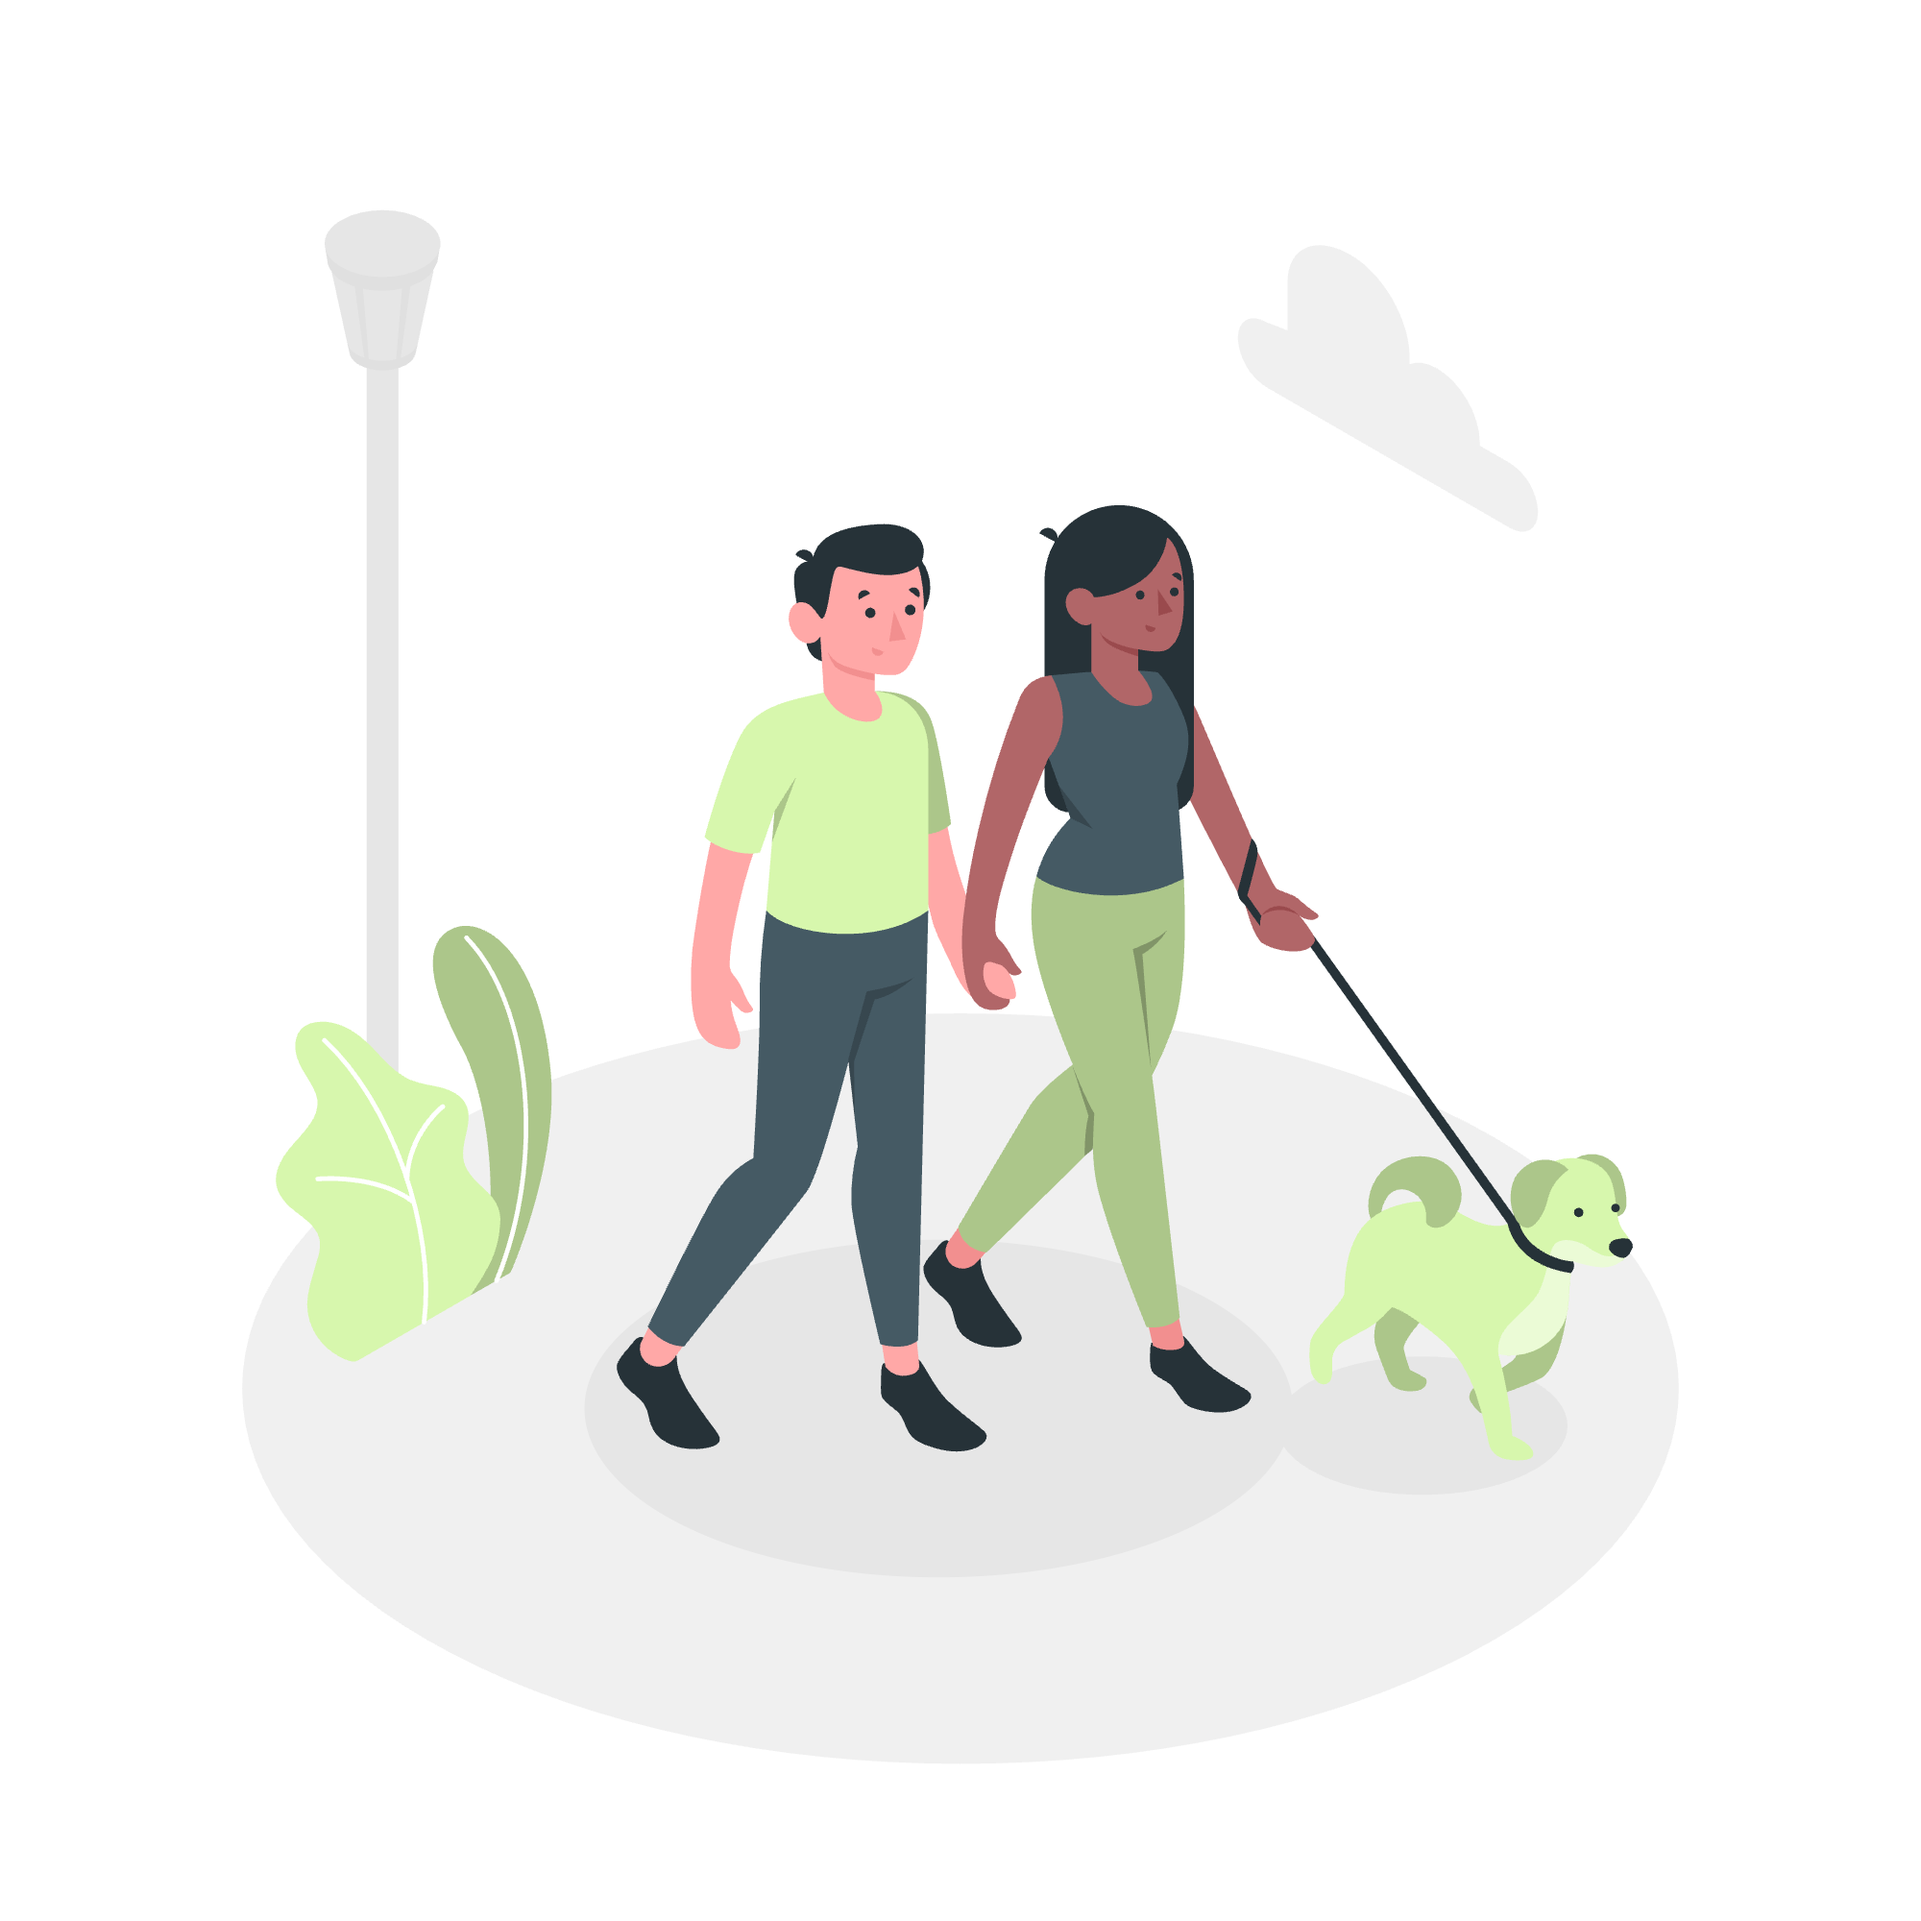
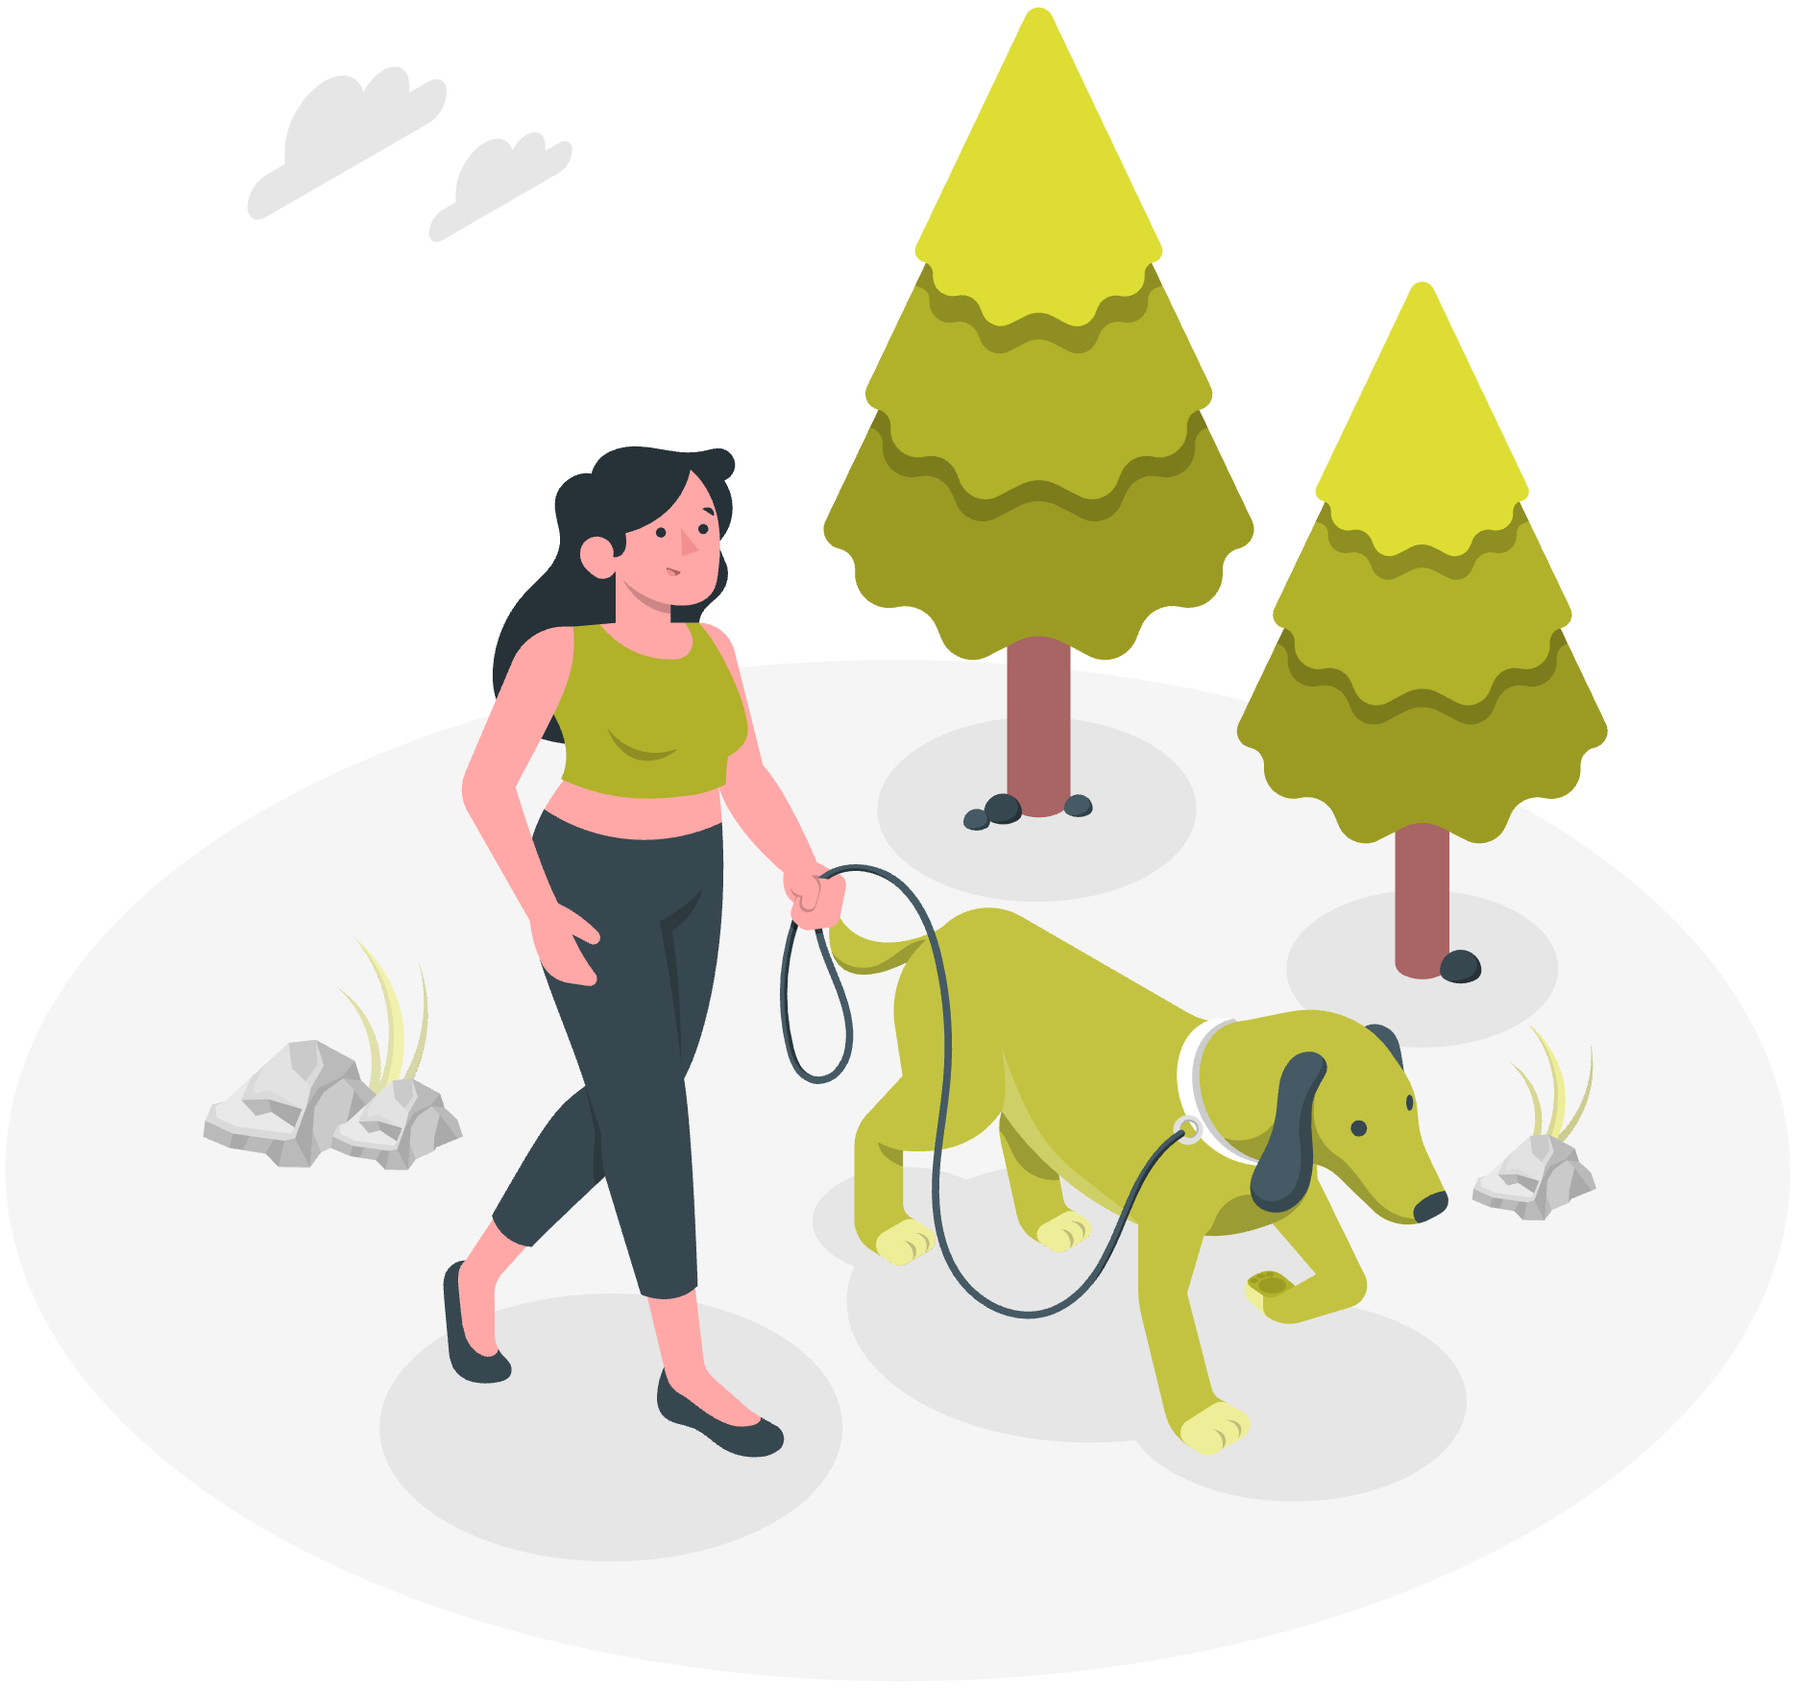
Nueva ilustración en el botón de publicar solicitud
Sustituye a la anterior, conservando el nombre del archivo.

La caja pasa de 96 × 76 a 87 × 82 porque la ilustración nueva no es
cuadrada (1874 × 1761). Con 'contain' y una caja de otra proporción, se
habría encogido para caber y habría dejado aire a los lados sin que se
entienda por qué.

Verificado que trae canal alfa, y que el título sigue entrando en una
línea: le quedan 203 pt en una pantalla de 390 y 173 en una de 360, frente
a los 145 que necesita.

diff --git a/petgo-app/app/(dueno)/inicio.tsx b/petgo-app/app/(dueno)/inicio.tsx
@@ -132,7 +132,10 @@ export default function InicioDueno() {
               solicitud" no añade nada. */}
           <Image
             source={require('../../assets/boton-publicar.png')}
-            style={{ width: 96, height: 76 }}
+            // La caja guarda la proporción del archivo (1874 × 1761). Con
+            // `contain` y una caja de otra proporción, la ilustración se
+            // encogería y dejaría aire a los lados sin que se vea por qué.
+            style={{ width: 87, height: 82 }}
             contentFit="contain"
             accessibilityLabel=""
           />
